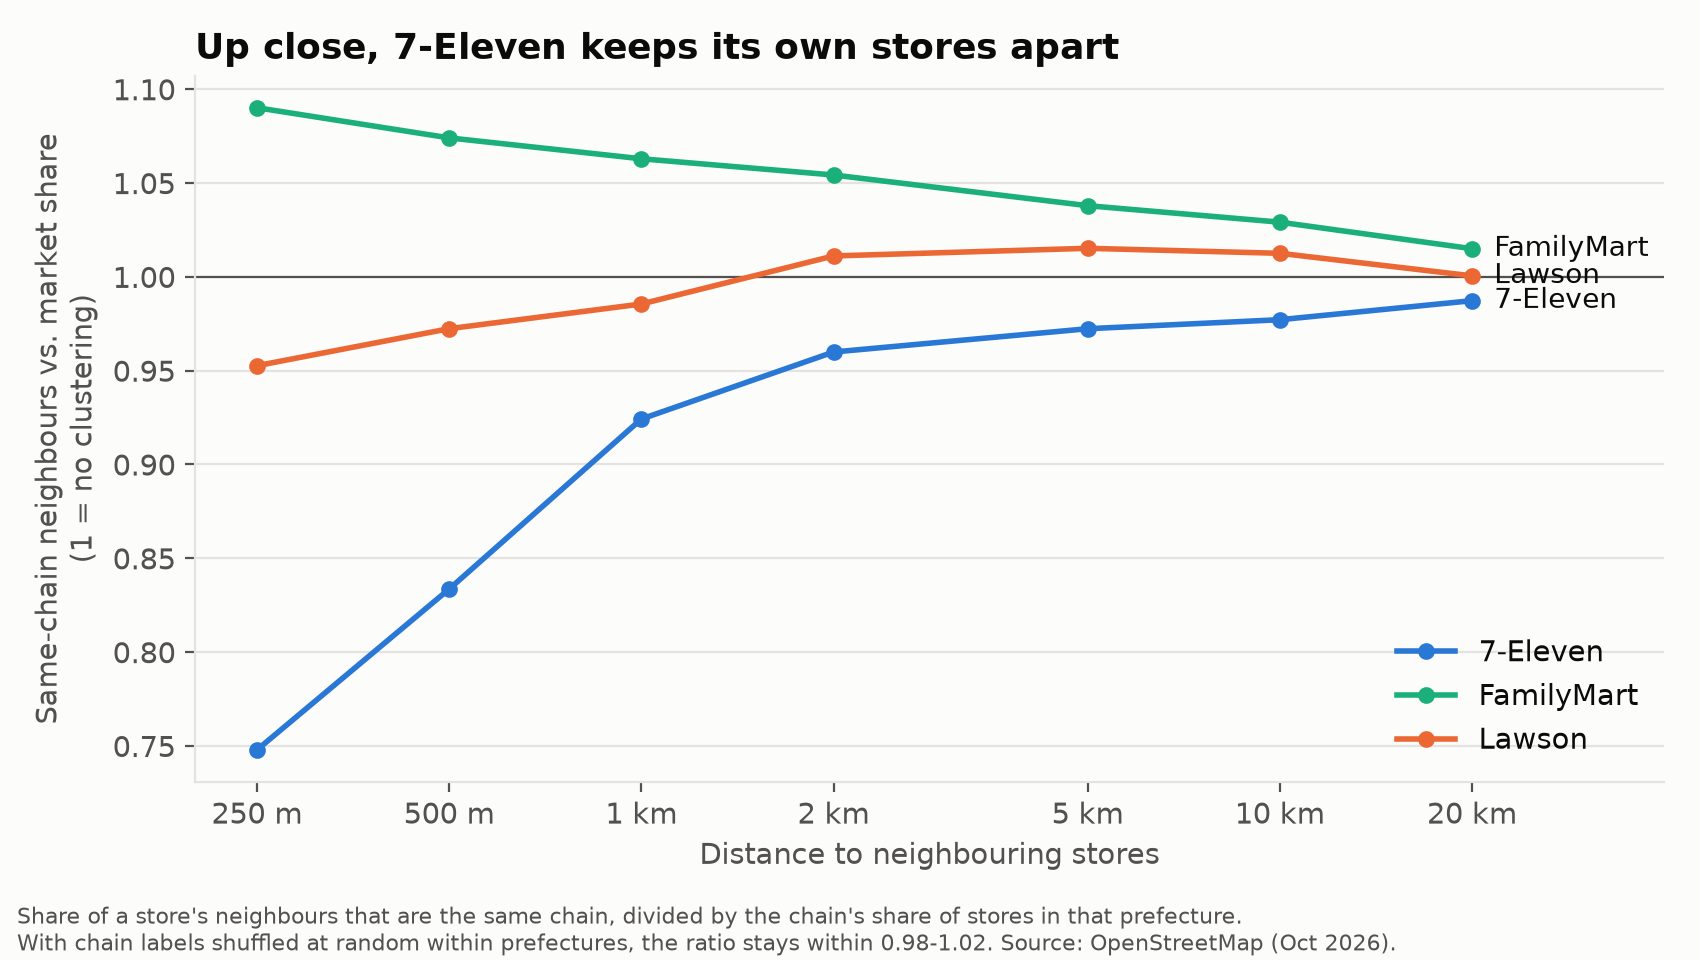
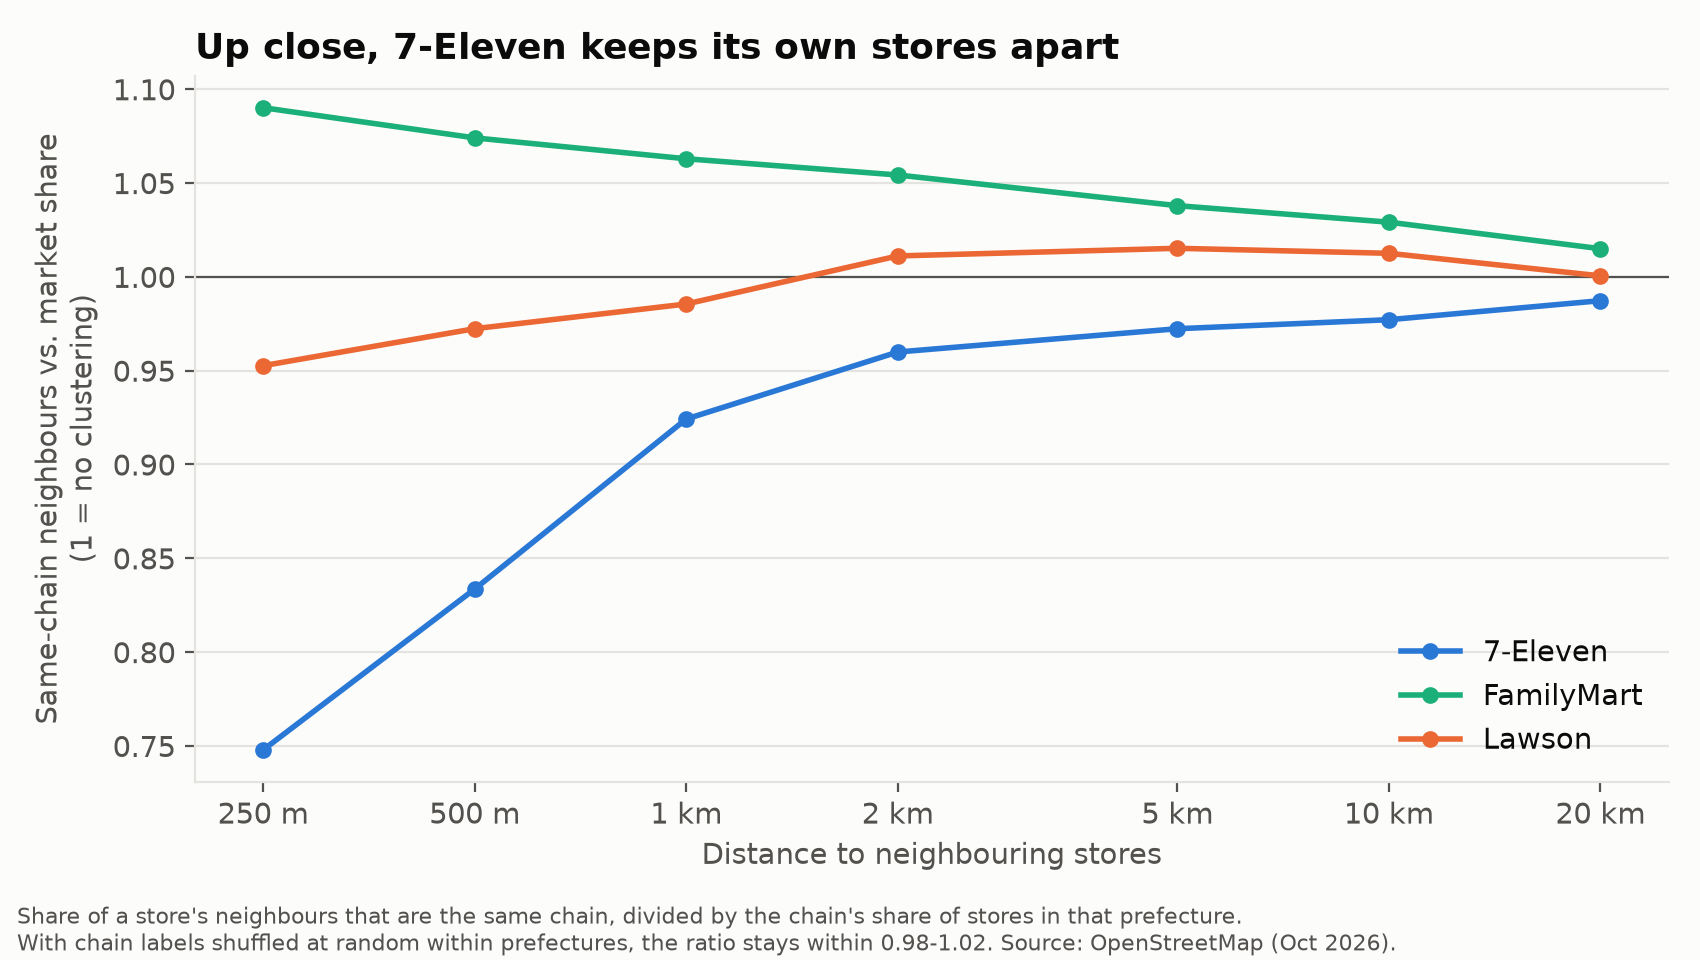
Part 1: tidy clustering chart labels

diff --git a/src/08_part1_clustering.py b/src/08_part1_clustering.py
@@ -139,12 +139,10 @@ ax.axhline(1, color=style.TEXT_MUTED, linewidth=0.8)
 for chain in MAIN:
     d = profile[profile["chain"] == chain]
     ax.plot(d["radius_km"], d["vs_prefecture_share"], color=colors[chain], marker="o", markersize=5, label=chain)
-    ax.annotate(chain, (d["radius_km"].iloc[-1], d["vs_prefecture_share"].iloc[-1]), xytext=(8, 0),
-                textcoords="offset points", va="center", color=style.TEXT, fontsize=10)
 ax.set_xscale("log")
 ax.set_xticks([0.25, 0.5, 1, 2, 5, 10, 20], ["250 m", "500 m", "1 km", "2 km", "5 km", "10 km", "20 km"])
 ax.minorticks_off()
-ax.set_xlim(0.2, 40)
+ax.set_xlim(0.2, 25)
 ax.set_xlabel("Distance to neighbouring stores")
 ax.set_ylabel("Same-chain neighbours vs. market share\n(1 = no clustering)")
 ax.set_title("Up close, 7-Eleven keeps its own stores apart")
